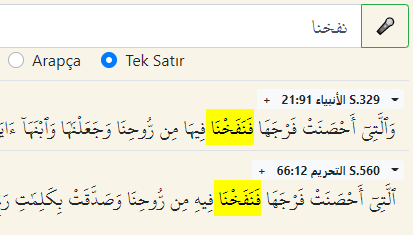
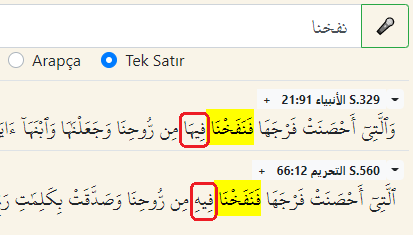
add bismi.png

diff --git a/KK/korunmus.html b/KK/korunmus.html
@@ -50,14 +50,14 @@
 <p>En’am suresinde “la’iben ve lehven”, A’raf suresinde “lehven ve la’iben”.
 <figure>
   <img src="./ittehazu_dinehum.png" alt="ittehazu_dinehum" />
-  <figcaption><a href="/Kuran/#b={t~axa*uwA@%20diynahumo" target=iqraTop>ittehazu dinehum</a></figcaption>
+  <figcaption><a href="/Kuran/#b={t~axa*uwA@%20diynahumo" target=iqraTop>ittehazû dînehum</a></figcaption>
 </figure>
 </p>
 
 <p>Başka bir ifade, “ebvâbe cehennem” ufak farklarla üç ayette geçiyor:
 <figure>
   <img src="./ebvabe_cehennem.png" alt="ebvabe_cehennem" />
-  <figcaption><a href="/Kuran/#b=%3Eabowa%60ba%20jahan~ama" target=iqraTop>ebvabe_cehennem</a></figcaption>
+  <figcaption><a href="/Kuran/#b=%3Eabowa%60ba%20jahan~ama" target=iqraTop>ebvâbe cehennem</a></figcaption>
 </figure>
 </p>
 
@@ -65,14 +65,14 @@
 <p>Kerim Kitâbımızın korunmuşluğuna ilginç bir örnek “key lâ” kelimesi. 7 âyette geçen bu söz bazan bitişik yazılıyor, bazan ayrılmış iki kelime, anlam değişmediği halde imlâsı farklı. Bütün mushaflarda bu ayrıntı korunmuş: <a href="/Kuran/#b=kaYo%20laA" target=iqraTop>3 yerde ayrı</a>, hiç farklı görünmeyen <a href="/Kuran/#b=kayolaA" target=iqraTop>4 yerde bitişik</a> yazılıyor. Nahl suresinde iki kelime halinde iken, Hacc suresinde aynı ifade içindeki boşluk silinir ve tek kelime kalır. Bu örneği zorlaştıran ikinci fark, <i>min</i> kelimesi bir ayette var, diğerinde yok.
 <figure>
   <img src="./bade_ilmin.png" alt="bade_ilmin" />
-  <figcaption><a href="/Kuran/#b=bEd%20Elm" target=iqraTop>bade_ilmin</a></figcaption>
+  <figcaption><a href="/Kuran/#b=bEd%20Elm" target=iqraTop>ba'de 'ilmin</a> (sesliler silinmiş)</figcaption>
 </figure>
 </p>
 
 <p>Şu örnekte yine okunuş ve anlam aynı, imlâ farklı. Neml suresinde fazladan bir yâ harfi var, kırâati ve mânâyı değiştirmediği halde mushaflarda muhafaza edilmiş.
 <figure>
   <img src="./bihadilumyi.png" alt="bihadilumyi" />
-  <figcaption><a href="/Kuran/#b=%3Eanta%20biha%60di" target=iqraTop>bihadilumyi</a></figcaption>
+  <figcaption><a href="/Kuran/#b=%3Eanta%20biha%60di" target=iqraTop>ente bihâd</a></figcaption>
 </figure>
 </p>
 
@@ -82,20 +82,20 @@
 
 <p>Aynı şeyi söyleyen ayet çiftlerinde kullanılan farklı zamirlere bakalım. Bu amaç için, “o, onu, onun” anlamındaki iki zamiri tanımak yeterli:</p>
 <ul>
-  <li>hu – müzekker (eril)</li>
-  <li>hâ – müennes (dişil)</li>
+  <li><b>hu</b> – müzekker (eril)</li>
+  <li><b>hâ</b> – müennes (dişil)</li>
 </ul>
 
 <p>Mesela sahabeden söz ederken bu farkı gözeterek Hz Ebubekir için “radiyallahu ‘anhu”, Hz Aişe için “radiyallahu ‘anhâ” deriz. Arada sadece bir elif farkı var.</p>
 
-<p>İlk örneğimiz “sizi sularız, size içiririz” anlamındaki <b>nusqîkum</b> kelimesi, hayvanlardan aldığımız sütü anlatıyor. “Karınlarından” derken kullanılan zamirlerin biri müzekker butûnihi, diğeri müennes butûnihâ:
+<p>İlk örneğimiz “sizi sularız, size içiririz” anlamındaki <b>nusqîkum</b> kelimesi, hayvanlardan aldığımız sütü anlatıyor. “Karınlarından” derken kullanılan zamirlerin biri müzekker <b>butûnihi</b>, diğeri müennes <b>butûnihâ</b>:
 <figure>
   <img src="./nusqiykum.png" alt="nusqiykum" />
   <figcaption><a href="/Kuran/#b=nsqykm" target=iqraTop>nusqiykum</a></figcaption>
 </figure>
 </p>
 
-<p>İkinci örnek “öğüt” anlamına gelen <b>tezkiratun</b>. Kendisi müennes olan bu kelime, aslında Kur’an için kullanılıyor. Buna işaret eden zamir ise iki yerde müzekker innehû, iki yerde müennes hâzihî (“bu” anlamında işaret zamiri), bir yerde de müennes innehâ:
+<p>İkinci örnek “öğüt” anlamına gelen <b>tezkiratun</b>. Kendisi müennes olan bu kelime, aslında Kur’an için kullanılıyor. Buna işaret eden zamir ise iki yerde müzekker <b>innehû</b>, iki yerde müennes <b>hâzihî</b> (“bu” anlamında işaret zamiri), bir yerde de müennes <b>innehâ</b>:
 <figure>
   <img src="./tezkira.png" alt="tezkira" />
   <figcaption><a href="/Kuran/#b=ta*okirapN" target=iqraTop>tezkira</a></figcaption>
@@ -105,14 +105,16 @@
 <p>Son olarak, Hz İsa’nın babasız yaratılışını hatırlatan iki ayette “üfledik” anlamında <b>nefahnâ</b>. Bu kelimeden sonra gelen zamirlerin biri müennes <b>fîhâ</b>, diğeri müzekker <b>fîhi</b>:
 <figure>
   <img src="./nefahna.png" alt="nefahna" />
-  <figcaption><a href="/Kuran/#b=nfxnA" target=iqraTop>nefahna</a></figcaption>
+  <figcaption><a href="/Kuran/#b=nfxnA" target=iqraTop>nefahnâ</a></figcaption>
 </figure>
 </p>
 
 <p>Burada vurgulanan farkların, ayetin anlamını değiştirmediği çok açık. Peki neden böyle bir titizlik gerekiyor? Çünkü mesajın aslı öyle, harfler aslına uygun korunmuş.</p>
 
+<p>Söz konusu <b>fîhi</b> kelimesi 154 kere geçiyor ve hepsinde ilk hece uzun, ikinci kısa okunur. <a href="/Kuran/#b=fiyhi." target=iqraTop>Sadece bir yerde</a> <b>fîhî</b> şeklinde, iki hecesi de uzun okunur. Farklı okunuş <a href="https://quran.com/25/69" target=Kuran>burada</a>.</p>
+
 <h3 id="elif-farki">5. Bir Elif Farkı</h3>
-<p>35 yıl önce, bilgisayarda Kuran okumak henüz bir hayal iken, <i>subhâne</i> kelimesini araştırmak bir tam gün sürmüştü. Her kelimenin hangi ayetlerde geçtiğini endeksleyen Mucem kitaplarını kullanıyorduk o zaman. Şimdi sonuçlar saniyede çıkıyor.</p>
+<p>1980'lerde, bilgisayarda Kuran okumak henüz bir hayal iken, <i>subhâne</i> kelimesini araştırmak bir tam gün sürmüştü. Her kelimenin hangi ayetlerde geçtiğini endeksleyen Mucem kitaplarını kullanıyorduk o zaman. Şimdi sonuçlar saniyede çıkıyor.</p>
 
 <p><b>Finder</b> yazılımı <i>subhâne</i> kelimesinin aynen geçtiği 40 ayeti gösteriyor:
 <figure>
@@ -156,8 +158,15 @@
 </figure>
 </p>
 
+<p>Silinen bir elif de <b>bismi</b> kelimesinde: Lazfa-i celal ile birlikte olan <a href="/Kuran/#b=bisomi" target=iqraTop>3 besmelede elif gizleniyor</a>, <b>rabb</b> kelimesi ile birlikte olan <a href="/Kuran/#b=bAsm" target=iqraTop>4 ayette elif yazılıyor</a>. Bütün mushaflarda bu ayrıntı da korunmuş.
+  <figure>
+    <img src="./bismi.png" alt="bismi" />
+    <figcaption><a href="/Kuran/#v=96:1" target=iqraTop>bismi</a></figcaption>
+  </figure>
+  </p>
+
 <h3 id="nimet-sunnet">6. Nimet, Sunnet, Rahmet</h3>
-<p>Bu üç kelimenin anlamına değil yazılışına bakalım. Üç kelimenin de son sesi olan T, köküne ait değil. Müennes te’si, çoğu zaman çift noktalı he ile yazlıyor. Bazan ama normal te’ye dönüşüyor. <b>Nimet</b> kelimesi ile başlayalım:
+<p>Bu üç kelimenin anlamına değil yazılışına bakalım. Üç kelimenin de son sesi olan T, kelimenin köküne ait değil. Müennes te’si, çoğu zaman çift noktalı he ile yazlıyor. Bazan ama normal te’ye dönüşüyor. <b>Nimet</b> kelimesi ile başlayalım:
 <figure class="narrow">
   <img src="./nimetullah.png" alt="nimet" />
   <figcaption><a href="/Kuran/#b=kuruwA@%20niEoma" target=iqraTop>uzkurû ni’me</a> &emsp; ve
@@ -165,7 +174,7 @@
 </figure>
 </p>
 
-<p>Yukarıda ni’metallah tamlamasının iki farklı yazılışı görülüyor, şeklin altında ise bini’metillah. Özellikle aşağıdaki Nahl suresi örneği önemli, çünkü ardarda iki ayette bir öyle bir böyle yazılmış ve fark aynen korunmuş.</p>
+<p>Yukarıda <b>ni’metallah</b> tamlamasının iki farklı yazılışı görülüyor, şeklin altında ise <b>bini’metillah</b>. Özellikle aşağıdaki Nahl suresi örneği önemli, çünkü ardarda iki ayette bir öyle bir böyle yazılmış ve fark aynen korunmuş.</p>
 
 <p><b>Sunnet</b> kelimesi için de benzeri bir tablomuz var:
 <figure class="narrow">
@@ -175,7 +184,7 @@
 </figure>
 </p>
 
-<p>Üstte lisunnetillah tamlamasının iki farklı yazılışı görülüyor, şeklin altında ise özne halinde sunnetul-evvelîn. “Neden böyle yazılır, ne anlamı var?” sorularına hiç girmeden, korunmuş ilginç ayrıntılar olarak kaydediyoruz. Rahmet kelimesi için de benzeri farklar var, ama bu kelime çok sayıda geçtiği için örneklere dahil edilmedi.</p>
+<p>Üstte <b>lisunnetillah</b> tamlamasının iki farklı yazılışı görülüyor, şeklin altında ise özne halinde <b>sunnetul-evvelîn</b>. “Neden böyle yazılır, ne anlamı var?” sorularına hiç girmeden, korunmuş ilginç ayrıntılar olarak kaydediyoruz. (<b>Rahmet</b> kelimesi için de benzeri farklar var, ama bu kelime çok sayıda geçtiği için örneklere dahil edilmedi)</p>
 
 
 <h3 id="sin-sad">7. Sin mi Sad mı?</h3>

diff --git a/KK/korunmus.css b/KK/korunmus.css
@@ -67,7 +67,7 @@
   button { cursor: pointer; }
   li { margin: 8px 0; }
   xs { font-size: x-small; }
-@media screen and (min-width: 700px) {
+@media screen and (min-width: 900px) {
   #buton { display: none; }
   #menu1 { display: block; }
 }
